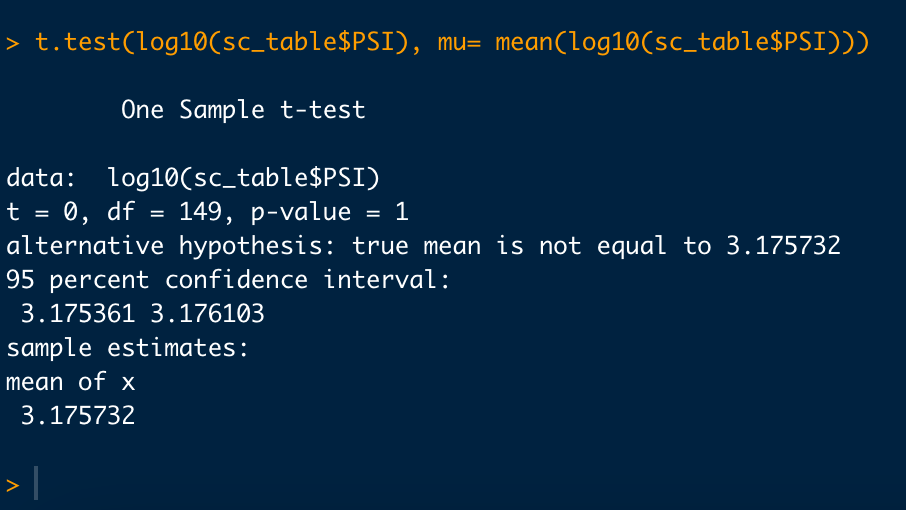
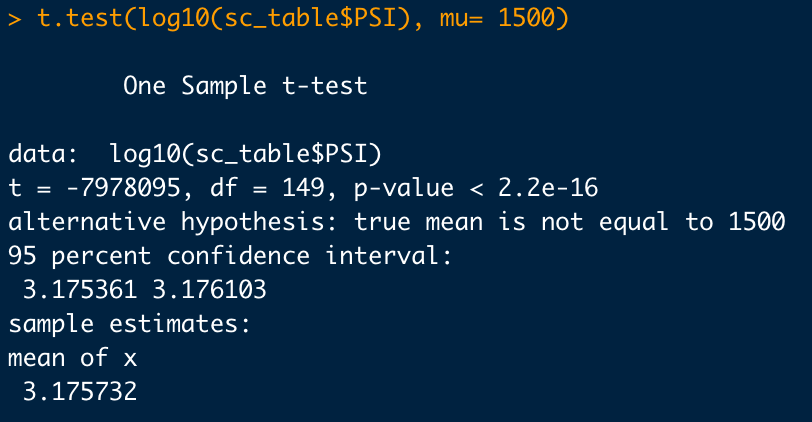
fixed ttest for all lots

Changed region(s): [[0.0, 0.3081, 0.9852, 0.9858], [0.0, 0.0, 0.9544, 0.1232], [0.1232, 0.1848, 0.4618, 0.2464]]

diff --git a/README.md b/README.md
@@ -27,6 +27,18 @@ Question: The design specifications for the MechaCar suspension coils dictate th
 **Looking at the total summary (second screenshot in this section), all manufacturing data meet the design specification as the PSI variance is about 62.29. However, looking at the summary of individual lot data (first screenshot in this section), lot 3 does not meet the specification as it's PSI variance is about 170.28. Lot 1 and 2 meet the design specifications as their PSI variances are 0.9796 and 7.4693, respectively.**
 
 ## T-Tests on Suspension Coils
+Objective: determine if the PSI for each manufacturing lot is statistically different from the population mean of 1,500 pounds per square inch.
 
+### Lot 1
+![Lot 1](https://github.com/yaejinpark/mechaCar_statistical_analysis/blob/main/resources/d3-ttest_lot1.png)
+
+### Lot 2
+![Lot 2](https://github.com/yaejinpark/mechaCar_statistical_analysis/blob/main/resources/d3-ttest_lot2.png)
+
+### Lot 3
+![Lot 3](https://github.com/yaejinpark/mechaCar_statistical_analysis/blob/main/resources/d3-ttest_lot3.png)
+
+### All Lots
+![All Lots](https://github.com/yaejinpark/mechaCar_statistical_analysis/blob/main/resources/d3-ttest.png)
 
 ## Study Design: MechaCar vs Competition
